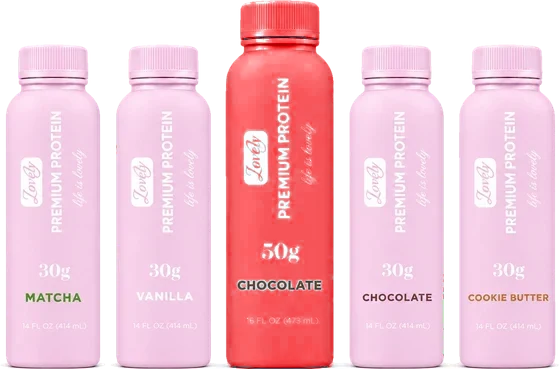
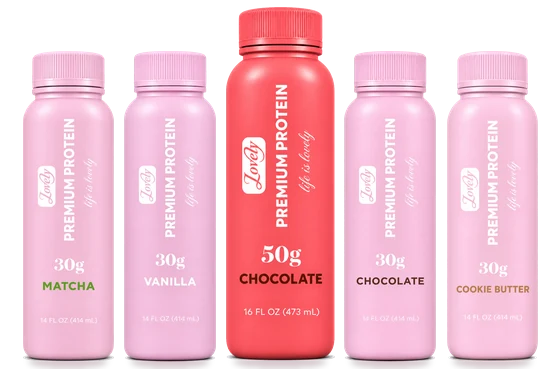
Lineup photo rebuilt from the new individual bottle photos
Claude-Session: https://claude.ai/code/session_01AzpPYfJ2iNTin5mbwrihoY

diff --git a/index.html b/index.html
@@ -1212,7 +1212,7 @@ header.top { background: var(--bg) !important; backdrop-filter: none !important;
   <a class="btn" href="shop.html">Build a box <span class="boxcount" hidden>0</span></a>
 </aside><main id="main">
 <section class="hero hbgw" aria-labelledby="h-shakes"><picture class="hbg"><source media="(max-width: 760px)" srcset="img/hero2_grid_m720.webp 720w, img/hero2_grid_m1080.webp 1080w" sizes="100vw"><img src="img/hero3_grid_2400.webp" srcset="img/hero3_grid_1600.webp 1600w, img/hero3_grid_2400.webp 2400w" sizes="100vw" alt="Lovely protein shakes in every flavor: pink 30g bottles and 12-packs in vanilla, chocolate, cookie butter and matcha, and coral 50g bottles and 12-packs" width="2400" height="1350" fetchpriority="high"></picture><div class="wrap"><div><h1 id="h-shakes">The protein shake you actually <em>want to drink.</em></h1><p class="lead">Tastes like a milkshake. Protein for him and for her. Protein for light weight, heavy weight, and everything in between. Only ingredients you can actually pronounce. Helping you build a life that's lovely.</p><div class="ctas stack"><a class="btn alt" href="index.html#lovelypass"><span class="swl"><span>Lovely</span></span> Pass</a><a class="btn" href="#find">Find a fridge</a></div></div></div></section>
-<section class="topbox" aria-label="Build a box"><div class="wrap"><div class="doors one"><a class="door dark" href="shop.html"><div><h3>Build a box of 12 or 24</h3><p>Any flavors, 30g or 50g. Free shipping on 24, because we're not monsters.</p></div><span class="go">Start building →</span><img class="lineup" src="img/lineup_mix.webp" srcset="img/lineup_mix_sm.webp 560w, img/lineup_mix.webp 1315w" sizes="(max-width: 860px) 320px, 420px" alt="Pink 30g Lovely bottles in Matcha, Vanilla, Chocolate and Cookie Butter with a coral 50g Chocolate" width="1315" height="867"></a></div></div></section><section class="shelf" style="padding-block:28px 10px" aria-labelledby="shelf-shakes"><div class="wrap"><div class="shelf-top"><h2 id="shelf-shakes">5 flavors. Zero chalk.</h2><div class="filters" role="group" aria-label="Filter"><button type="button" class="press" aria-pressed="true" data-filter="all">All</button><button type="button" class="press" aria-pressed="false" data-filter="classic">Launch flavors</button><button type="button" class="press" aria-pressed="false" data-filter="new">New</button></div></div><div class="bottle-view"><p><b>Pick a bottle.</b> Tap a flavor for nutrition facts.</p><div class="segline" role="group" aria-label="Bottle size"><button type="button" data-protein="30" aria-pressed="true"><span class="swl"><span>Lovely</span></span> · 30g</button><button type="button" data-protein="50" aria-pressed="false" class="w">Lovely · 50g</button></div></div><div class="rail"><article class="fl" data-tag="classic" id="flavor-choc"><span class="tag classic">Launch flavor</span><button type="button" class="pic" data-drink="choc" aria-label="Chocolate: see nutrition facts"><img src="img/b_choc.webp?v=3" alt="Lovely Chocolate protein shake" width="200" height="520" loading="lazy"></button><h3><button type="button" class="nlink" data-drink="choc">Chocolate</button></h3><button type="button" class="nf-link" data-drink="choc">Nutrition facts</button><button type="button" class="add" data-add="choc">Add to box</button></article><article class="fl" data-tag="classic" id="flavor-van"><span class="tag classic">Launch flavor</span><button type="button" class="pic" data-drink="van" aria-label="Vanilla: see nutrition facts"><img src="img/b_van.webp?v=3" alt="Lovely Vanilla protein shake" width="200" height="520" loading="lazy"></button><h3><button type="button" class="nlink" data-drink="van">Vanilla</button></h3><button type="button" class="nf-link" data-drink="van">Nutrition facts</button><button type="button" class="add" data-add="van">Add to box</button></article><article class="fl" data-tag="classic" id="flavor-pb"><span class="tag classic">Launch flavor</span><button type="button" class="pic" data-drink="pb" aria-label="Peanut Butter: see nutrition facts"><img src="img/b_pb.webp?v=3" alt="Lovely Peanut Butter protein shake" width="200" height="520" loading="lazy"></button><h3><button type="button" class="nlink" data-drink="pb">Peanut Butter</button></h3><button type="button" class="nf-link" data-drink="pb">Nutrition facts</button><button type="button" class="add" data-add="pb">Add to box</button></article><article class="fl" data-tag="new" id="flavor-cbutter"><span class="tag new">New</span><button type="button" class="pic" data-drink="cbutter" aria-label="Cookie Butter: see nutrition facts"><img src="img/b_cbutter.webp?v=3" alt="Lovely Cookie Butter protein shake" width="200" height="520" loading="lazy"></button><h3><button type="button" class="nlink" data-drink="cbutter">Cookie Butter</button></h3><button type="button" class="nf-link" data-drink="cbutter">Nutrition facts</button><button type="button" class="add" data-add="cbutter">Add to box</button></article><article class="fl" data-tag="new" id="flavor-matcha"><span class="tag new">New</span><button type="button" class="pic" data-drink="matcha" aria-label="Matcha: see nutrition facts"><img src="img/b_matcha.webp?v=3" alt="Lovely Matcha protein shake" width="200" height="520" loading="lazy"></button><h3><button type="button" class="nlink" data-drink="matcha">Matcha</button></h3><button type="button" class="nf-link" data-drink="matcha">Nutrition facts</button><button type="button" class="add" data-add="matcha">Add to box</button></article></div></div></section>
+<section class="topbox" aria-label="Build a box"><div class="wrap"><div class="doors one"><a class="door dark" href="shop.html"><div><h3>Build a box of 12 or 24</h3><p>Any flavors, 30g or 50g. Free shipping on 24, because we're not monsters.</p></div><span class="go">Start building →</span><img class="lineup" src="img/lineup_mix.webp?v=5" srcset="img/lineup_mix_sm.webp?v=5 560w, img/lineup_mix.webp?v=5 1315w" sizes="(max-width: 860px) 320px, 420px" alt="Pink 30g Lovely bottles in Matcha, Vanilla, Chocolate and Cookie Butter with a coral 50g Chocolate" width="1315" height="867"></a></div></div></section><section class="shelf" style="padding-block:28px 10px" aria-labelledby="shelf-shakes"><div class="wrap"><div class="shelf-top"><h2 id="shelf-shakes">5 flavors. Zero chalk.</h2><div class="filters" role="group" aria-label="Filter"><button type="button" class="press" aria-pressed="true" data-filter="all">All</button><button type="button" class="press" aria-pressed="false" data-filter="classic">Launch flavors</button><button type="button" class="press" aria-pressed="false" data-filter="new">New</button></div></div><div class="bottle-view"><p><b>Pick a bottle.</b> Tap a flavor for nutrition facts.</p><div class="segline" role="group" aria-label="Bottle size"><button type="button" data-protein="30" aria-pressed="true"><span class="swl"><span>Lovely</span></span> · 30g</button><button type="button" data-protein="50" aria-pressed="false" class="w">Lovely · 50g</button></div></div><div class="rail"><article class="fl" data-tag="classic" id="flavor-choc"><span class="tag classic">Launch flavor</span><button type="button" class="pic" data-drink="choc" aria-label="Chocolate: see nutrition facts"><img src="img/b_choc.webp?v=3" alt="Lovely Chocolate protein shake" width="200" height="520" loading="lazy"></button><h3><button type="button" class="nlink" data-drink="choc">Chocolate</button></h3><button type="button" class="nf-link" data-drink="choc">Nutrition facts</button><button type="button" class="add" data-add="choc">Add to box</button></article><article class="fl" data-tag="classic" id="flavor-van"><span class="tag classic">Launch flavor</span><button type="button" class="pic" data-drink="van" aria-label="Vanilla: see nutrition facts"><img src="img/b_van.webp?v=3" alt="Lovely Vanilla protein shake" width="200" height="520" loading="lazy"></button><h3><button type="button" class="nlink" data-drink="van">Vanilla</button></h3><button type="button" class="nf-link" data-drink="van">Nutrition facts</button><button type="button" class="add" data-add="van">Add to box</button></article><article class="fl" data-tag="classic" id="flavor-pb"><span class="tag classic">Launch flavor</span><button type="button" class="pic" data-drink="pb" aria-label="Peanut Butter: see nutrition facts"><img src="img/b_pb.webp?v=3" alt="Lovely Peanut Butter protein shake" width="200" height="520" loading="lazy"></button><h3><button type="button" class="nlink" data-drink="pb">Peanut Butter</button></h3><button type="button" class="nf-link" data-drink="pb">Nutrition facts</button><button type="button" class="add" data-add="pb">Add to box</button></article><article class="fl" data-tag="new" id="flavor-cbutter"><span class="tag new">New</span><button type="button" class="pic" data-drink="cbutter" aria-label="Cookie Butter: see nutrition facts"><img src="img/b_cbutter.webp?v=3" alt="Lovely Cookie Butter protein shake" width="200" height="520" loading="lazy"></button><h3><button type="button" class="nlink" data-drink="cbutter">Cookie Butter</button></h3><button type="button" class="nf-link" data-drink="cbutter">Nutrition facts</button><button type="button" class="add" data-add="cbutter">Add to box</button></article><article class="fl" data-tag="new" id="flavor-matcha"><span class="tag new">New</span><button type="button" class="pic" data-drink="matcha" aria-label="Matcha: see nutrition facts"><img src="img/b_matcha.webp?v=3" alt="Lovely Matcha protein shake" width="200" height="520" loading="lazy"></button><h3><button type="button" class="nlink" data-drink="matcha">Matcha</button></h3><button type="button" class="nf-link" data-drink="matcha">Nutrition facts</button><button type="button" class="add" data-add="matcha">Add to box</button></article></div></div></section>
 <section class="ds-sec" aria-labelledby="h-ds"><div class="wrap ds-head">
   <div><h2 id="h-ds"><span class="hash">#lifeislovely</span></h2><p>Tag <b>@drinklovely</b> to get featured. Fame awaits. Mild fame.</p></div>
   <div class="ctas"><a class="btn" href="blog.html">See the feed</a><button type="button" class="btn alt" data-copy="#lifeislovely">Copy #lifeislovely</button></div>

diff --git a/shop.html b/shop.html
@@ -1230,7 +1230,7 @@ header.top { background: var(--bg) !important; backdrop-filter: none !important;
         <h1 id="pdp-h">Premium Protein Shake</h1>
     <p class="pdp-sum">Tastes like a milkshake. Lactose-free. Ships in cases of 24.</p>
     <div class="pdp-price"><b id="pdp-now">$101.99</b><span id="pdp-per">Free shipping</span></div>
-    <fieldset class="pdp-opt"><legend>Flavor: <b id="pdp-flv">Chocolate</b></legend><div class="pdp-flavors"><button type="button" data-f="choc" aria-pressed="true" title="Chocolate"><img src="img/b_choc.webp?v=3" alt="" width="204" height="700"><span>Chocolate</span></button><button type="button" data-f="van" aria-pressed="false" title="Vanilla"><img src="img/b_van.webp?v=3" alt="" width="204" height="700"><span>Vanilla</span></button><button type="button" data-f="cbutter" aria-pressed="false" title="Cookie Butter"><img src="img/b_cbutter.webp?v=3" alt="" width="204" height="700"><span>Cookie Butter</span></button><button type="button" data-f="matcha" aria-pressed="false" title="Matcha"><img src="img/b_matcha.webp?v=3" alt="" width="204" height="700"><span>Matcha</span></button><button type="button" data-f="pb" aria-pressed="false" title="Peanut Butter"><img src="img/b_pb.webp?v=3" alt="" width="204" height="700"><span>Peanut Butter</span></button><button type="button" data-f="mix" aria-pressed="false" title="Mix flavors"><img src="img/lineup_mix_sm.webp" alt="" width="660" height="435" class="mx"><span>Mix flavors</span></button></div></fieldset>
+    <fieldset class="pdp-opt"><legend>Flavor: <b id="pdp-flv">Chocolate</b></legend><div class="pdp-flavors"><button type="button" data-f="choc" aria-pressed="true" title="Chocolate"><img src="img/b_choc.webp?v=3" alt="" width="204" height="700"><span>Chocolate</span></button><button type="button" data-f="van" aria-pressed="false" title="Vanilla"><img src="img/b_van.webp?v=3" alt="" width="204" height="700"><span>Vanilla</span></button><button type="button" data-f="cbutter" aria-pressed="false" title="Cookie Butter"><img src="img/b_cbutter.webp?v=3" alt="" width="204" height="700"><span>Cookie Butter</span></button><button type="button" data-f="matcha" aria-pressed="false" title="Matcha"><img src="img/b_matcha.webp?v=3" alt="" width="204" height="700"><span>Matcha</span></button><button type="button" data-f="pb" aria-pressed="false" title="Peanut Butter"><img src="img/b_pb.webp?v=3" alt="" width="204" height="700"><span>Peanut Butter</span></button><button type="button" data-f="mix" aria-pressed="false" title="Mix flavors"><img src="img/lineup_mix_sm.webp?v=5" alt="" width="660" height="435" class="mx"><span>Mix flavors</span></button></div></fieldset>
     <fieldset class="pdp-opt"><legend>Protein: <b id="pdp-pro">30g</b></legend><div class="pdp-sizes"><button type="button" data-pp="30" aria-pressed="true"><b>30g protein</b><span>Pink bottle · 14 oz</span></button><button type="button" data-pp="50" aria-pressed="false"><b>50g protein</b><span>Coral bottle · 16 oz</span></button></div></fieldset>
     <fieldset class="pdp-opt pdp-plans"><legend class="sr">Purchase</legend>
       <label class="pdp-plan"><input type="radio" name="pdp-plan" value="sub" checked><span class="pp-h"><b>Subscribe <em id="pdp-save2">Save 15%</em></b></span>
@@ -2085,10 +2085,10 @@ header.top { background: var(--bg) !important; backdrop-filter: none !important;
   var q = new URLSearchParams(location.search), st = { f: N[q.get("f")] ? q.get("f") : "choc", p: q.get("p") === "50" ? 50 : 30, plan: "sub", img: 0 };
   function m(v) { return "$" + v.toFixed(2); }
   function pics() { var f = st.f, w = st.p === 50;
-    if (f === "mix") return [["img/lineup_mix.webp", "Protein shakes in every flavor, 30g and 50g bottles", 0], ["img/size_compare.webp", "30g and 50g bottles side by side", 0], ["img/pack_choc.webp?v=3", "A 12-bottle pack", 0]];
+    if (f === "mix") return [["img/lineup_mix.webp?v=5", "Protein shakes in every flavor, 30g and 50g bottles", 0], ["img/size_compare.webp", "30g and 50g bottles side by side", 0], ["img/pack_choc.webp?v=3", "A 12-bottle pack", 0]];
     return [[w ? "img/pack_swoll_" + f + ".webp?v=2" : "img/pack_" + f + ".webp?v=3", N[f] + " protein shake, " + st.p + "g, with its pack", 0],
       [w ? "img/sw_" + f + "_lg.webp" : "img/b_" + f + ".webp?v=3", N[f] + " protein shake bottle, " + st.p + "g protein", 1],
-      ["img/size_compare.webp", "30g and 50g bottles side by side", 0], ["img/lineup_mix.webp", "Every flavor in 30g and 50g bottles", 0]]; }
+      ["img/size_compare.webp", "30g and 50g bottles side by side", 0], ["img/lineup_mix.webp?v=5", "Every flavor in 30g and 50g bottles", 0]]; }
   function draw() {
     var r = PR[st.p], P = pics(), cur = P[Math.min(st.img, P.length - 1)], mix = st.f === "mix", price = st.plan === "sub" ? r.sub : r.once;
     var im = $("pdp-img"); im.src = cur[0]; im.alt = cur[1]; im.className = cur[2] ? "fit" : "";

diff --git a/products.html b/products.html
@@ -1346,7 +1346,7 @@ header.top { background: var(--bg) !important; backdrop-filter: none !important;
   </div>
 </article>
 <article class="st-card" data-cat="shakes" data-price="101.99" data-order="5" data-new="0">
-  <a class="st-img photo mixfit" href="shop.html#build"><img src="img/lineup_mix_sm.webp" srcset="img/lineup_mix_sm.webp 660w, img/lineup_mix.webp 1315w" sizes="(max-width: 700px) 46vw, 280px" alt="Protein shakes in all five flavors, 30g pink and 50g coral bottles" width="1315" height="867" loading="lazy"><span class="st-badges"></span></a>
+  <a class="st-img photo mixfit" href="shop.html#build"><img src="img/lineup_mix_sm.webp?v=5" srcset="img/lineup_mix_sm.webp?v=5 660w, img/lineup_mix.webp?v=5 1315w" sizes="(max-width: 700px) 46vw, 280px" alt="Protein shakes in all five flavors, 30g pink and 50g coral bottles" width="1315" height="867" loading="lazy"><span class="st-badges"></span></a>
   <div class="st-body">
     <h3><a href="shop.html#build">Mix &amp; Match 24-Pack</a></h3>
     <p class="st-var">Pick any flavors · 30g, 50g or both</p>
